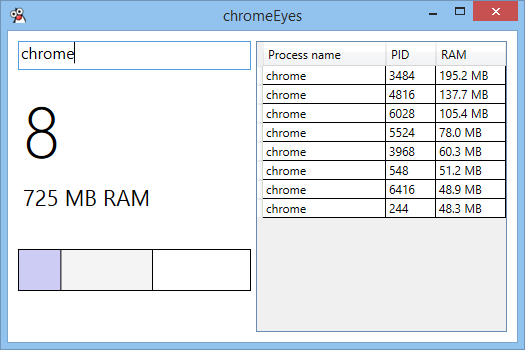
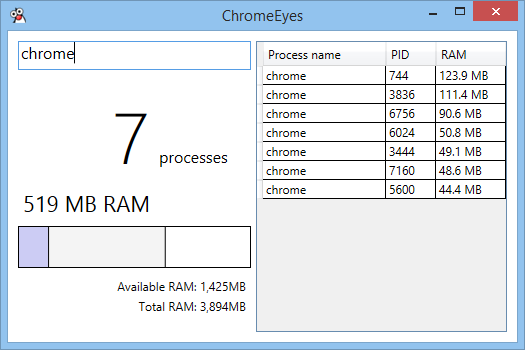
Added an available RAM label

diff --git a/JavaEyes/MainWindow.xaml b/JavaEyes/MainWindow.xaml
@@ -19,6 +19,7 @@
         <Rectangle Name="CriteriaRam" Fill="#FFCCCCF4" HorizontalAlignment="Left" Height="42" Margin="10,195,0,0" Stroke="Black" VerticalAlignment="Top" Width="32" ToolTip="RAM used by selected processes"/>
         <Label Name="ProcessLabel" Content="processes" HorizontalAlignment="Left" Margin="146,110,0,0" VerticalAlignment="Top" Width="97" Height="34" FontSize="16"/>
         <Label Name="AvailableRamLabel" Content="Available" HorizontalContentAlignment="Right" HorizontalAlignment="Left" Margin="10,242,0,0" VerticalAlignment="Top" Width="233"/>
+        <Label Name="TotalRamLabel" Content="Total" HorizontalContentAlignment="Right" HorizontalAlignment="Left" Margin="10,262,0,0" VerticalAlignment="Top" Width="233"/>
 
     </Grid>
 </Window>

diff --git a/JavaEyes/MainWindow.xaml.cs b/JavaEyes/MainWindow.xaml.cs
@@ -26,7 +26,7 @@ namespace JavaEyes
             InitializeComponent();
             Criteria.Focus();
             Criteria.SelectAll();
-            AvailableRamLabel.Content = String.Format("Total RAM: {0:n0}MB", totalRam / 1048576.0);
+            TotalRamLabel.Content = String.Format("Total RAM: {0:n0}MB", totalRam / 1048576.0);
             CountJava();
             DispatcherTimer timer = new DispatcherTimer();
             timer.Tick += new EventHandler(CountJava);
@@ -64,6 +64,7 @@ namespace JavaEyes
         private void UpdateGraph(long ram)
         {
             ulong availableRam = new ComputerInfo().AvailablePhysicalMemory;
+            AvailableRamLabel.Content = String.Format("Available RAM: {0:n0}MB", availableRam / 1048576.0);
             double bytesPerPixel = ((double)totalRam / (double)TotalRam.Width);
             RamInUse.Width = (totalRam - availableRam) / bytesPerPixel;
             CriteriaRam.Width = ram / bytesPerPixel;
